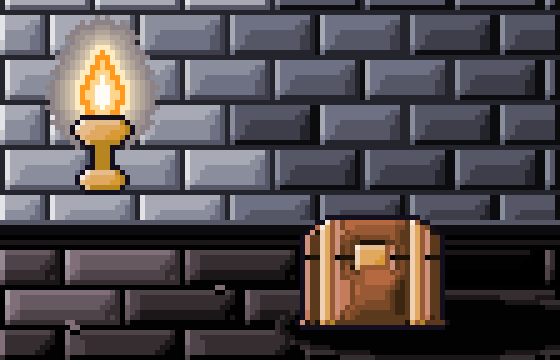
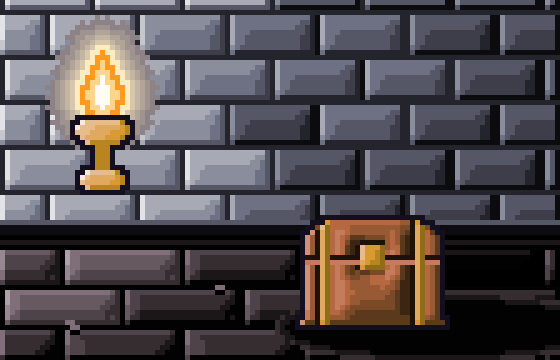
Fix the four showcase defects a 12x review found, and unsell the fifth
Reviewing the new art at 12x rather than at thumbnail size turned up ten
problems. These are the four that were cheap, plus a correction to a README
paragraph that oversold a technique I had not zoomed in on.

Glints (#187). Two of the four were on the wrong part. The sword's landed at
(19,29) and (19,30), on its leather grip, while the blade had none; the key's
landed on the lower right of its bow, which at 128 degrees is the shadow side.
Both came from scoping the glint to the whole 40px cell, so the normals
described the entire compound object's mass. Each glint is now scoped to a
rectangle holding one part, and the script asserts its pixels are inside that
part's own point set. Scoping alone did not fix the key: the hole punched above
the bow's centre took its own edge out of the eligible interior and pushed the
glint away from it, so the hole now goes in after the glint rather than before,
and the script checks the glint survived it.

Rims (#188). hand_lit takes a part's global top row and global bottom row,
which is right for a slab and useless for anything that wraps. On the shield's
rim it lit two pixels and left ninety at the flat fill colour, so a steel rim
read as a second grey outline. edge_lit lights by the direction each pixel's
edge faces, taken as the vector from the part's centre, which is near enough
the surface normal on a ring, a rim or a small gem. The rim and the pommel gem
use it; the key's wards are slabs and keep hand_lit.
[…]

diff --git a/scripts/showcase/items.py b/scripts/showcase/items.py
@@ -17,6 +17,8 @@ it were form. Several parts refuse a form and are lit by hand, and every one of 
 refusals is correct: a 2px shield rim, a 3px key shank and a 6px ward have no interior for
 a distance field to describe, and inventing one would be drawing rather than shading.
 """
+import math
+
 from aseprite_mcp.tools import (
     drawing,
     effects,
@@ -82,6 +84,11 @@ def erode(points, steps=1):
 
 def pts(points):
     return [{"x": x, "y": y} for x, y in sorted(points)]
+
+
+def items_pixel(point):
+    x, y = point
+    return inspect.get_pixels(NAME, x, y, 1, 1)["pixels"][0][0][:7].lower()
 
 
 def band(points, keep):
@@ -157,7 +164,7 @@ BOW = {
     7: [(-7, 7)], 8: [(-7, 7)], 9: [(-7, 7)], 10: [(-7, 7)],
     11: [(-6, 6)], 12: [(-5, 5)], 13: [(-4, 4)], 14: [(-2, 2)],
 }
-BOW_HOLE = {6: [(-1, 1)], 7: [(-2, 2)], 8: [(-1, 1)]}
+BOW_HOLE = {7: [(-1, 1)], 8: [(-2, 2)], 9: [(-1, 1)]}
 # The shank is three pixels across, so it is lit as what it is: a rod, bright on the side
 # the key comes from and dark opposite. A distance field cannot say that about three
 # pixels, and `shade_region_by_light` is right to refuse rather than guess.
@@ -204,12 +211,48 @@ def form(base, band_ramp, *, rim=0.20, bulge=1.0, light_z=0.62):
 
 
 def hand_lit(points, band_ramp, *, lit=6, dark=2):
-    """Light a part with no interior: the top row takes the key, the bottom row loses it."""
+    """Light a slab with no interior: the top row takes the key, the bottom row loses it.
+
+    Right for something flat seen edge on, like a ward on a key. Wrong for anything that
+    wraps, which is what `edge_lit` is for.
+    """
     if not points:
         return
     top, bottom = min(y for _, y in points), max(y for _, y in points)
     flat(band(points, {top}), band_ramp[lit])
     flat(band(points, {bottom}), band_ramp[dark])
+
+
+def edge_lit(points, band_ramp, *, lo=1, hi=None):
+    """Light a part that wraps, by which way each pixel's edge faces.
+
+    `hand_lit` lit this sheet's shield rim before, and the measurement was damning: every
+    row of that rim, both sides, came out at the flat fill colour, because a rim's global
+    top row is two pixels and its global bottom row is one. Ninety-odd pixels of steel
+    stayed unshaded and the rim read as a second grey outline around the shield.
+
+    A thin part has no interior for a distance field to measure, which is why
+    `shade_region_by_light` refuses it. It does still have a direction: on a ring, a rim or
+    a small gem, the vector from the part's centre out to a pixel is near enough the way
+    that pixel's surface faces. Dot that against the key and take a ramp step from it.
+    """
+    if not points:
+        return
+    hi = len(band_ramp) - 2 if hi is None else hi
+    cx = sum(x for x, _ in points) / len(points)
+    cy = sum(y for _, y in points) / len(points)
+    # Screen y grows downward, so the key's vector is (cos, -sin): at 128 degrees that
+    # points up and to the left, which is where the light is.
+    kx, ky = math.cos(math.radians(LIGHT)), -math.sin(math.radians(LIGHT))
+    steps = {}
+    for x, y in points:
+        dx, dy = x - cx, y - cy
+        reach = math.hypot(dx, dy) or 1.0
+        facing = (dx / reach) * kx + (dy / reach) * ky
+        step = lo + round((hi - lo) * (facing + 1.0) / 2.0)
+        steps.setdefault(step, set()).add((x, y))
+    for step, group in sorted(steps.items()):
+        flat(group, band_ramp[step])
 
 
 def raised(points, band_ramp, *, face=5, lit=7, dark=2):
@@ -280,9 +323,11 @@ form(BRONZE[5], BRONZE, rim=0.22)
 form(RIBBON[4], RIBBON, bulge=0.8)
 # What the tool refuses, and is right to: a 2px shield rim, a 3px key shank, a 6px ward
 # and a 5px pommel gem have no interior, so there is no form for a distance field to find.
-hand_lit(shield_rim, STEEL)
+# The rim and the gem wrap, so they are lit by the direction their edges face; the wards
+# are slabs, so the top row and the bottom row is the whole of what they have to say.
+edge_lit(shield_rim, STEEL)
+edge_lit(gem, GEM)
 hand_lit(wards, BRONZE)
-hand_lit(gem, GEM)
 flat(rows(KEY, SHANK_LIT), BRONZE[6])
 flat(rows(KEY, SHANK_MID), BRONZE[4])
 flat(rows(KEY, SHANK_DARK), BRONZE[2])
@@ -298,14 +343,16 @@ flat(rows(HELM_X, VISOR), STEEL[0])
 flat(rows(HELM_X, BREATHS), STEEL[1])
 raised(crest, GOLD)
 flat(rows(SCROLL, WRITING), PARCH[1])
-# The hole goes in after the shading, not before: a lozenge with a hole in it has less
-# interior than one without, and the pass that gives it form wants all of it.
-flat(rows(KEY, BOW_HOLE), "transparent")
 
 # 4. a dithered terminator where a hard band boundary would read as a step. The steps are
 #    1-based here, so 4 and 5 are `ramp[3]` and `ramp[4]`, which is where the terminator
 #    lands at this ambient. Tolerance tight again, for the reason `form` gives.
-for band_ramp in (PAINT, PARCH, STEEL):
+#
+#    Not on STEEL. That pass landed on the helm, which is the largest smooth region on the
+#    sheet, and a four-pixel checkerboard straight across a 23px face was the loudest thing
+#    here: it read as damage rather than as a widened transition. A dither has to be small
+#    against the form it is widening, and on the helm it was a third of the surface.
+for band_ramp in (PAINT, PARCH):
     shading.dither_band(NAME, band_ramp, from_step=4, to_step=5, pattern="bayer4",
                         width=2, tolerance=1.0)
 
@@ -324,14 +371,43 @@ effects.remove_stray_pixels(NAME, protect=[STEEL[8], STEEL[1], STEEL[0], GOLD[2]
 #
 #    The scroll gets none. Parchment has no specular, and a glint on it would be the kind
 #    of detail that is added because a tool exists rather than because the surface has one.
-GLINTS = ((SWORD, STEEL, "#ffffff", 2), (SHIELD_X, PAINT, "#ffffff", 3),
-          (HELM_X, STEEL, "#ffffff", 3), (KEY, BRONZE, "#fff6e4", 2))
-for ox, band_ramp, white, size in GLINTS:
-    selection.select_region(NAME, "rect", x=ox, y=0, width=CELL, height=SIZE)
-    shading.specular_highlight(NAME, band_ramp, light_angle=LIGHT, light_z=0.62,
-                               size=size, tightness=0.55, highlight_color=white)
+#    The selection is the *part*, not the cell, and that is the whole fix. Scoped to the
+#    cell, the region was the entire compound object and the normals described its overall
+#    mass: the sword's two glint pixels landed at (19,29) and (19,30), on the leather grip,
+#    while the blade had none, and the key's landed on the lower right of its bow, which at
+#    128 degrees is the shadow side. A rectangle that holds one part and no other is enough
+#    to say which part should shine.
+GLINTS = (
+    ("blade", (SWORD, 0, CELL, 22), STEEL, "#ffffff", 2),
+    ("shield", (SHIELD_X, 0, CELL, SIZE), PAINT, "#ffffff", 3),
+    ("helm", (HELM_X, 0, CELL, SIZE), STEEL, "#ffffff", 3),
+    ("bow", (KEY, 0, CELL, 15), BRONZE, "#fff6e4", 2),
+)
+PARTS = {"blade": blade, "shield": shield, "helm": helm, "bow": bow}
+for part, (x, y, w, h), band_ramp, white, size in GLINTS:
+    selection.select_region(NAME, "rect", x=x, y=y, width=w, height=h)
+    placed = shading.specular_highlight(
+        NAME, band_ramp, light_angle=LIGHT, light_z=0.62, size=size, tightness=0.55,
+        highlight_color=white)
+    landed = {(px, py) for px, py in placed["pixels"]}
+    assert landed <= PARTS[part], f"the {part} glint landed outside it: {sorted(landed)}"
+    if part == "bow":
+        bow_glint = landed
+    print(f"  glint on the {part:<6} {sorted(landed)}")
 # Before the outline, or the outline traces one cell and leaves the rest bare.
 selection.deselect(NAME)
+
+# 6b. the key's hole, punched here and not earlier, and both halves of that matter.
+#     Not before the form pass, because a lozenge with a hole in it has less interior than
+#     one without and the pass that gives it form wants all of it. Not before the glint
+#     either, which is what the first version of this fix got wrong: scoping the glint to
+#     the bow put it at (21,10) all the same, on the bow's lower right, because a hole
+#     punched above centre takes its own edge out of the eligible interior and pushes the
+#     best-aligned pixel away from it. The hole is a feature of the drawing, not of the
+#     surface, so it goes in once the surface is finished.
+flat(rows(KEY, BOW_HOLE), "transparent")
+survivors = {p for p in bow_glint if items_pixel(p) == "#fff6e4"}
+assert survivors == bow_glint, f"the hole ate the bow's glint: {sorted(bow_glint - survivors)}"
 
 # 7. one dark outline over everything. It fills the key's hole as well, which is what a
 #    hole that small should look like.
@@ -349,7 +425,7 @@ MATERIALS = {
     KEY: ("key", BRONZE),
     SCROLL: ("scroll", PARCH, WOOD, RIBBON),
 }
-everywhere = {OUTLINE.lower()} | {white.lower() for _, _, white, _ in GLINTS}
+everywhere = {OUTLINE.lower()} | {w.lower() for _, _, _, w, _ in GLINTS}
 print()
 for ox, (item, *band_ramps) in MATERIALS.items():
     allowed = everywhere | {c.lower() for band_ramp in band_ramps for c in band_ramp}

diff --git a/scripts/showcase/dungeon.py b/scripts/showcase/dungeon.py
@@ -184,8 +184,15 @@ LID = {
 SEAM = {51: [(-13, 13)]}
 BODY = {y: [(-13, 13)] for y in range(52, 64)}
 TRIM = {64: [(-14, 14)]}
-STRAPS = {y: [(-10, -8), (8, 10)] for y in range(44, 65)}
-LOCK = {y: [(-3, 3)] for y in range(49, 54)}
+# Two pixels wide, not three, and a five-pixel lock rather than seven. The straps and the
+# lock are drawn over the lid's seam, which is correct (a strap covers a seam), but at the
+# old widths they covered 17 of the lid's 27 pixels and the seam survived as four dashes.
+# A chest whose lid you cannot find is a box.
+STRAPS = {y: [(-10, -9), (9, 10)] for y in range(44, 65)}
+LOCK = {y: [(-2, 2)] for y in range(49, 54)}
+# The body's top edge, catching the light the lid's overhang does not block. This is what
+# actually sells a lid: not the dark seam, but the lit line under it.
+LIP = {52: [(-13, 13)]}
 
 def is_variant(rect):
     """Pick about a fifth of the blocks to sit a step darker than their neighbours.
@@ -274,15 +281,27 @@ flat(straps | lock, BRASS[5], "chest")
 shading.shade_region_by_light(NAME, CHESTWOOD, base_color=CHESTWOOD[5], light_angle=LIGHT,
                               light_z=0.5, ambient=0.26, rim=0.14, tolerance=1.0,
                               layer="chest")
-shading.shade_region_by_light(NAME, BRASS, base_color=BRASS[5], light_angle=LIGHT,
+# Before the brass is shaded, not after, and that ordering is the whole call. A contact
+# shadow needs an occluder to measure from, and `BRASS[5]` is the strap's flat fill: run
+# after the brass pass, only 3 pixels of the whole chest were still that colour and the
+# call did nothing visible. The wood is already shaded by this point, which is what the
+# darkening is applied to, so nothing is lost by going first.
+contact = shading.contact_shadow(NAME, CHESTWOOD, occluder_color=BRASS[5], radius=1,
+                                 depth=2, tolerance=12.0, layer="chest")
+assert contact["pixels_written"], "the contact shadow found no occluder to measure from"
+print(f"chest: contact shadow darkened {contact['pixels_written']} wood pixels")
+# `BRASS[:7]`, not the whole ramp. On two-pixel-wide vertical strips the full ramp puts the
+# lit column at `#efd2b6`, which is nearly white, so the least important detail on the
+# chest became the most contrasted thing on it. Reserving the top two steps keeps it brass.
+shading.shade_region_by_light(NAME, BRASS[:7], base_color=BRASS[5], light_angle=LIGHT,
                               light_z=0.5, ambient=0.28, rim=0.2, bulge=0.7,
                               tolerance=1.0, layer="chest")
-# The lid's seam, and the wood darkened where the straps stand proud of it. A contact
-# shadow is the line that stops two shapes on one layer reading as one flat shape.
+# The lid's seam and the body's lit lip, both after the furniture so neither is drawn over.
 flat(rows(CHEST_X, SEAM) - straps - lock, CHESTWOOD[1], "chest")
-shading.contact_shadow(NAME, CHESTWOOD, occluder_color=BRASS[5], radius=1, depth=2,
-                       tolerance=40.0, layer="chest")
-effects.add_outline(NAME, OUTLINE, thickness=1, connectivity=4, where="outside",
+flat(rows(CHEST_X, LIP) - straps - lock, CHESTWOOD[7], "chest")
+# `connectivity=8`, as everything else in the showcase uses. At 4 the lid's chamfered
+# corners had their diagonal neighbours left unpainted, so the outline opened at each one.
+effects.add_outline(NAME, OUTLINE, thickness=1, connectivity=8, where="outside",
                     layer="chest")
 
 # 7. the shadow the chest throws, on the floor and clipped to it. `ground_layer` is what
@@ -299,7 +318,7 @@ flat(rows(TORCH_X, STEM), BRASS[3], "sconce")
 shading.shade_region_by_light(NAME, BRASS, base_color=BRASS[5], light_angle=LIGHT,
                               light_z=0.5, ambient=0.3, rim=0.24, tolerance=1.0,
                               layer="sconce")
-effects.add_outline(NAME, OUTLINE, thickness=1, connectivity=4, where="outside",
+effects.add_outline(NAME, OUTLINE, thickness=1, connectivity=8, where="outside",
                     layer="sconce")
 for _ in range(len(FLICKER) - 1):
     frames.duplicate_frame(NAME, 1)
@@ -334,6 +353,13 @@ print()
 print(f"floor row {PROBE_Y}: step {steps.index(near)} at x={NEAR}, "
       f"step {steps.index(far)} at x={FAR}")
 assert steps.index(near) > steps.index(far), "the falloff darkened nothing"
+
+seam_row = [x for x in range(CHEST_X - 14, CHEST_X + 15)
+            if inspect.get_pixels(NAME, x, 51, 1, 1)["pixels"][0][0][:7].lower()
+            == CHESTWOOD[1].lower()]
+print(f"lid seam: {len(seam_row)} of 27 pixels on row 51, in "
+      f"{sum(1 for i, x in enumerate(seam_row) if i == 0 or x != seam_row[i - 1] + 1)} runs")
+assert len(seam_row) >= 18, f"the lid seam is {len(seam_row)} pixels, too broken to read"
 
 shapes = {frozenset(flame_points(profile, lean)) for profile, lean, _ms in FLICKER}
 assert len(shapes) == len(FLICKER), "two frames share a flame silhouette"

diff --git a/scripts/showcase/README.md b/scripts/showcase/README.md
@@ -75,11 +75,25 @@ went wrong first.
   one, so the pass meant for one cell reshaded art in another. Nothing looked wrong. Three
   rounds went into redrawing the wrong thing before the colours were counted, which is
   now [issue #183](https://github.com/MalloyTheDev/aseprite-mcp/issues/183).
+- `items.py` also asserts **where each glint landed**, because the colour census did not.
+  It proved no colour crossed a cell and said nothing about whether the glint inside that
+  cell was on the right object, and two of the four were not: the sword's was on its
+  leather grip and the key's was on the shadow side of its bow. Each glint is now scoped to
+  a rectangle holding one part, and the script checks its pixels are inside that part's own
+  point set ([#187](https://github.com/MalloyTheDev/aseprite-mcp/issues/187)).
+- `dungeon.py` asserts the chest's lid seam is at least 18 of its 27 pixels, and that
+  `contact_shadow` darkened something. The seam was 10 pixels in four dashes, because the
+  straps and the lock were drawn over it, and the contact shadow was a no-op because the
+  occluder colour it was given no longer existed by the time it ran
+  ([#194](https://github.com/MalloyTheDev/aseprite-mcp/issues/194)).
 - `dungeon.py` probes two points on the same flagstone course and fails if the far one is
   not darker, and it checks that all four flame frames have different silhouettes. At one
   ramp step a zone the first of those still passed while the room still looked evenly
   lit, which is a measurement satisfied by something no reader can see; the falloff is two
-  steps a zone now.
+  steps a zone now. That probe is also the clearest example here of an assertion covering
+  only the failure it was written for: it passes, and the far wall is still a repeating
+  tile, because nothing measures the *variety* of the blocks
+  ([#193](https://github.com/MalloyTheDev/aseprite-mcp/issues/193)).
 
 ## What these scripts are drawn like
 
@@ -98,8 +112,11 @@ feature at all a reader could catch being a pixel off.
 
 ## Issues these scripts turned up
 
-Drawing with the tools is the best test the tools get. Six issues came out of this round,
-all with the failing call and the measurement in them:
+Drawing with the tools is the best test the tools get, and reviewing the drawing at 12x is
+the best test the drawing gets. Sixteen issues came out of this round, ten of them from
+zooming in on art that looked finished at thumbnail size.
+
+Against the tools, with the failing call and the measurement in each:
 [#181](https://github.com/MalloyTheDev/aseprite-mcp/issues/181) (a fully masked write
 reports no counts), [#182](https://github.com/MalloyTheDev/aseprite-mcp/issues/182) (the
 `.msk` sidecar outlives its sprite),
@@ -109,4 +126,26 @@ merges two materials), [#184](https://github.com/MalloyTheDev/aseprite-mcp/issue
 [#185](https://github.com/MalloyTheDev/aseprite-mcp/issues/185) (`glow` needs one layer per
 frame), [#186](https://github.com/MalloyTheDev/aseprite-mcp/issues/186) (`dither_band`
 counts from 1 beside a list that counts from 0).
+
+Against the art in this directory:
+[#187](https://github.com/MalloyTheDev/aseprite-mcp/issues/187) and
+[#188](https://github.com/MalloyTheDev/aseprite-mcp/issues/188) and
+[#194](https://github.com/MalloyTheDev/aseprite-mcp/issues/194) are fixed, along with the
+helm's half of [#189](https://github.com/MalloyTheDev/aseprite-mcp/issues/189). Still open:
+[#189](https://github.com/MalloyTheDev/aseprite-mcp/issues/189) (the shield's blown-out top
+and the scroll's ribbon),
+[#190](https://github.com/MalloyTheDev/aseprite-mcp/issues/190) (the longsword is half
+hilt), [#191](https://github.com/MalloyTheDev/aseprite-mcp/issues/191) (the scroll has no
+silhouette), [#192](https://github.com/MalloyTheDev/aseprite-mcp/issues/192) (the sheet has
+no shared weight or palette family),
+[#193](https://github.com/MalloyTheDev/aseprite-mcp/issues/193) (the far wall repeats),
+[#195](https://github.com/MalloyTheDev/aseprite-mcp/issues/195) (the torchlight is a
+sticker) and [#196](https://github.com/MalloyTheDev/aseprite-mcp/issues/196) (the horizon is
+a letterbox bar).
+
+What fixed `#188` is worth keeping in mind for any thin part: `hand_lit` lights a part's
+global top row and global bottom row, which is right for a slab and useless for anything
+that wraps. On the shield's rim it lit two pixels and left ninety at the flat fill colour.
+`edge_lit` lights by the direction each pixel's edge faces instead, taken as the vector from
+the part's centre, which is near enough the surface normal on a ring, a rim or a small gem.
 

diff --git a/README.md b/README.md
@@ -250,13 +250,22 @@ Three things in that picture are worth more than the picture.
 **Forty blocks, one shading call.** `shade_region_by_light` builds a distance field over
 everything matching one base colour, and a field over a mask with forty disconnected parts
 describes each part on its own. The mortar joints are what make the mask forty components
-instead of one slab, so the whole wall takes its form from a single call and every block
-comes out domed:
+instead of one slab, so the whole wall takes its form from a single call:
 
 ```python
 shade_region_by_light("dungeon.aseprite", STONE, base_color=STONE[5],
                       light_angle=155, bulge=0.75, tolerance=1.0, layer="wall")
 ```
+
+With a caveat this README had earlier without it. Near the torch that works: a block there
+carries 12 to 19 tones and no two are shaded alike. In the dim zone it does not. Sampling
+24 blocks and normalising value away, so two blocks count as the same when their pixels
+rank the same whatever their brightness, 8 of them come back **pixel for pixel identical at
+6 tones**, all in the far zone. `shift_along_ramp` clamps at the ends, so pushing a block
+three steps down a nine-step ramp collapses its darks together and a block that has
+flattened is the same as any other block that has flattened. The far wall is one tile
+repeated, and that is [issue
+#193](https://github.com/MalloyTheDev/aseprite-mcp/issues/193) rather than a feature.
 
 **The falloff is zones down a ramp.** No tool here lights a scene from a point, and faking
 one by blending would land every pixel between palette entries. `shift_along_ramp` moves a
@@ -276,7 +285,9 @@ floor row 52: step 5 at x=20, step 1 at x=95
 That last line is [asserted by the generator](scripts/showcase/dungeon.py), because a
 falloff nobody measured is a falloff you have to take on trust. At one step a zone the
 assertion still passed and the room still looked evenly lit, which is a measurement being
-satisfied by something no reader can see.
+satisfied by something no reader can see. The reverse is also true and cost more: the
+assertion passes today as well, and the far wall is still a repeating tile, because nothing
+was measuring *that*. An assertion only covers the failure it was written for.
 
 **The flicker is four frames with four durations.** `set_all_frame_durations` would give an
 even pulse, and an even pulse reads as a machine rather than as fire. The flame also leans a
@@ -301,7 +312,11 @@ the outside of a pool of light is the wall with light on it.
 
 The chest's shadow is `cast_shadow` with `ground_layer="floor"`, which clips it to the
 flagstones so it cannot run off the floor and hang in the air, and it uses the floor's ramp
-rather than the chest's, because a shadow is a darkening of what it lies on.
+rather than the chest's, because a shadow is a darkening of what it lies on. The chest's own
+contact shadow had to move: `contact_shadow` takes the occluder's colour, and run after the
+brass pass that had already repainted the straps, only 3 pixels of the chest were still the
+colour it was given. It runs before that pass now and reports 102 darkened wood pixels,
+which the generator asserts is not zero.
 
 ### Scaffold a whole asset in one call
 
